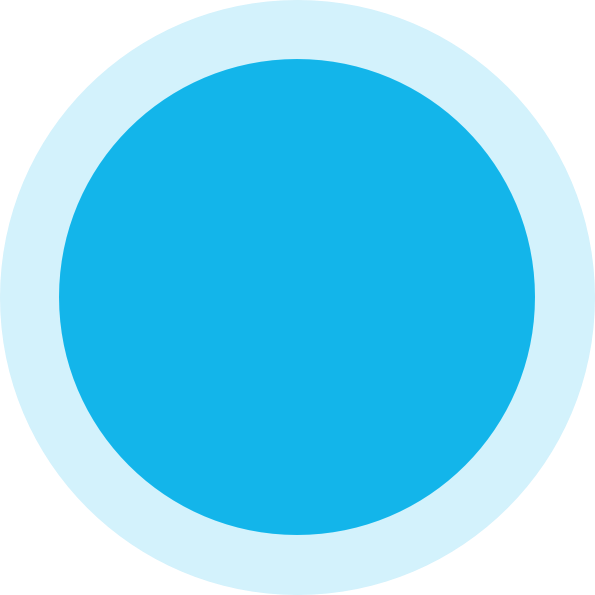
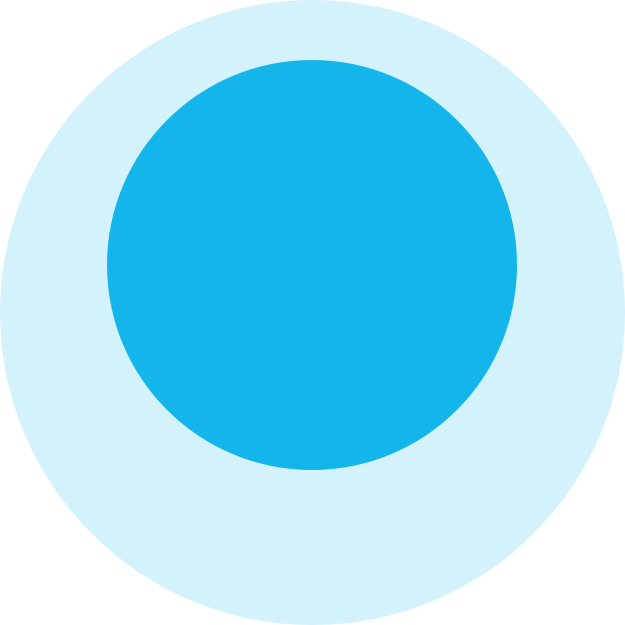
Speed animation

Changed region(s): [[0.0908, 0.121, 0.9076, 0.9076], [0.4235, 0.0908, 0.5748, 0.121]]

diff --git a/framer/framer.generated.js b/framer/framer.generated.js
@@ -363,18 +363,18 @@ window.__imported__["Todo/layers.json.js"] = [
             "image" : {
               "path" : "images\/RFill-66A9C3C1-D1F3-47BC-97FD-884BCD47EF69.png",
               "frame" : {
-                "y" : 163,
-                "x" : 711,
-                "width" : 595,
-                "height" : 595
+                "y" : 147,
+                "x" : 698,
+                "width" : 625,
+                "height" : 625
               }
             },
             "imageType" : "png",
             "layerFrame" : {
-              "y" : 163,
-              "x" : 711,
-              "width" : 595,
-              "height" : 595
+              "y" : 147,
+              "x" : 698,
+              "width" : 625,
+              "height" : 625
             },
             "name" : "RFill"
           }

diff --git a/imported/Todo/layers.json.js b/imported/Todo/layers.json.js
@@ -261,18 +261,18 @@ window.__imported__["Todo/layers.json.js"] = [
             "image" : {
               "path" : "images\/RFill-66A9C3C1-D1F3-47BC-97FD-884BCD47EF69.png",
               "frame" : {
-                "y" : 163,
-                "x" : 711,
-                "width" : 595,
-                "height" : 595
+                "y" : 147,
+                "x" : 698,
+                "width" : 625,
+                "height" : 625
               }
             },
             "imageType" : "png",
             "layerFrame" : {
-              "y" : 163,
-              "x" : 711,
-              "width" : 595,
-              "height" : 595
+              "y" : 147,
+              "x" : 698,
+              "width" : 625,
+              "height" : 625
             },
             "name" : "RFill"
           }
